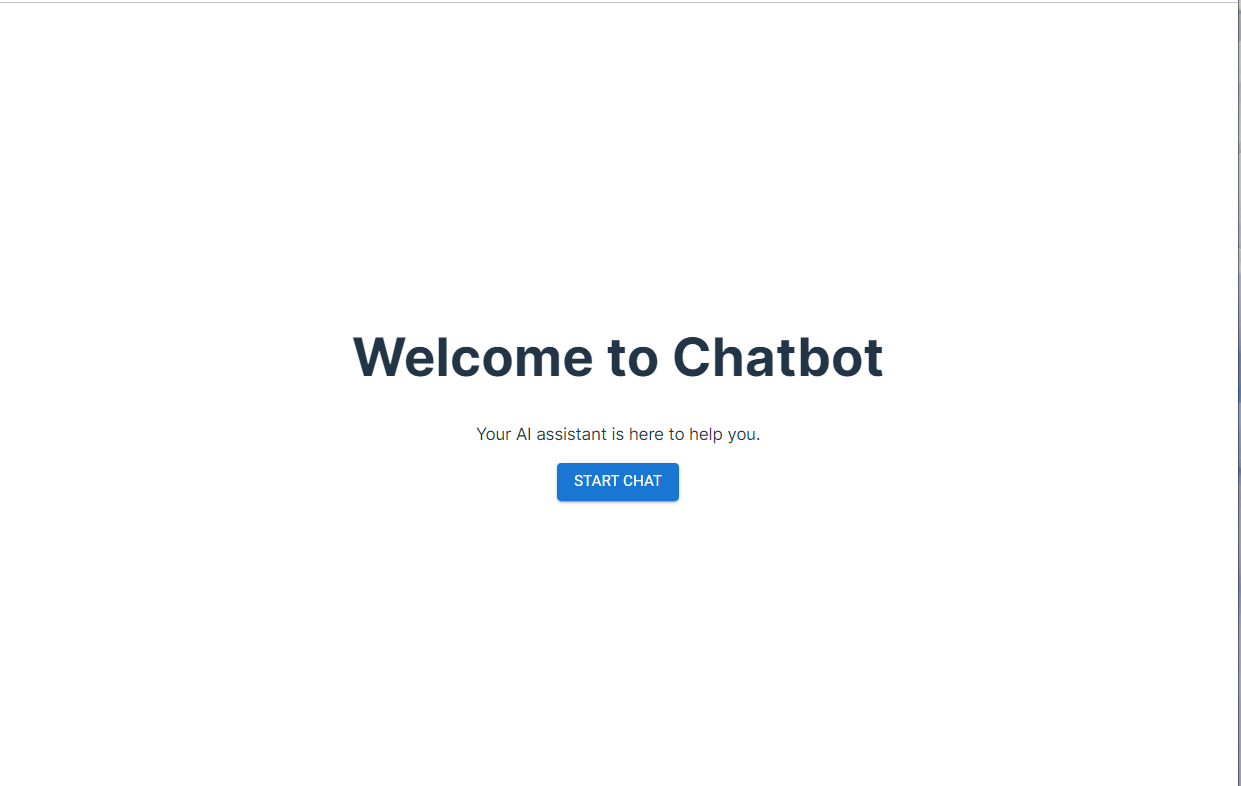
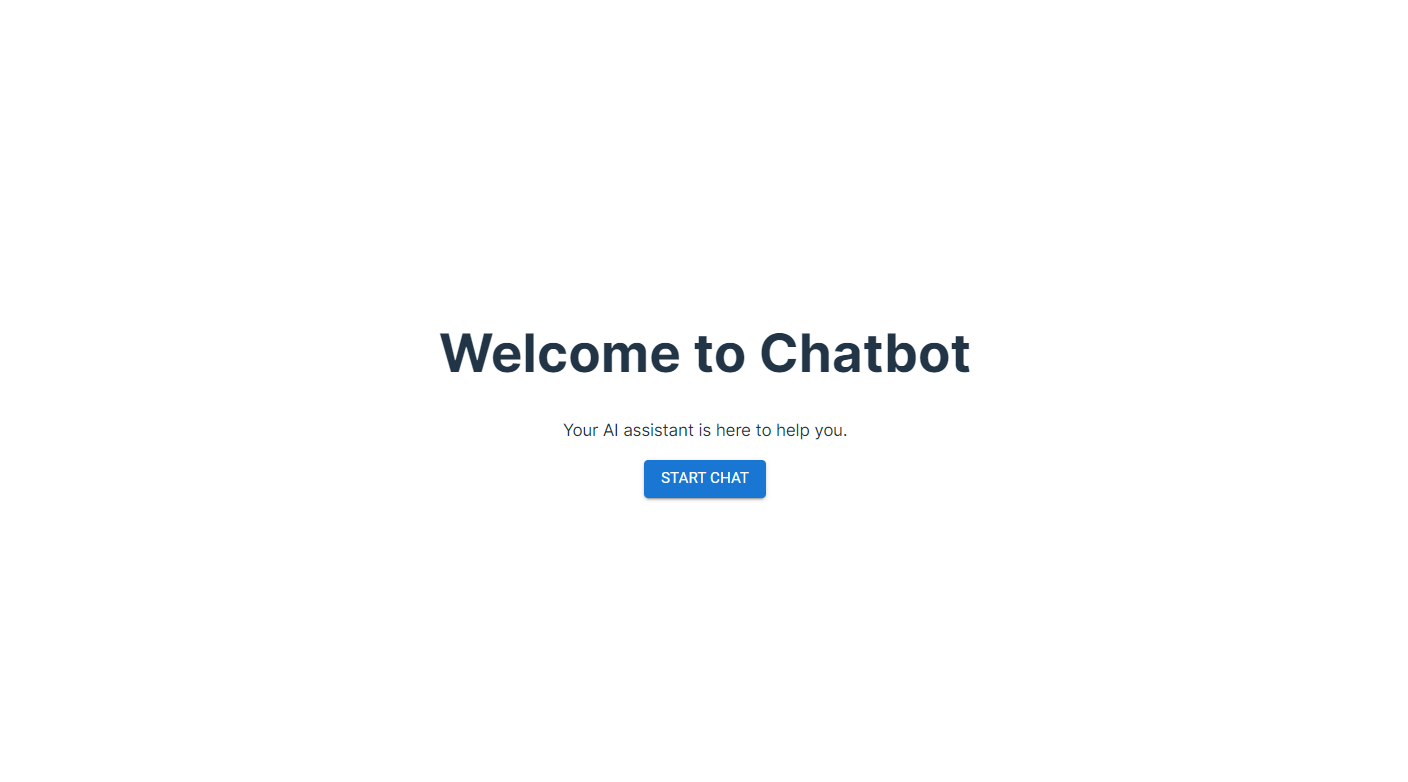
final change

Changed region(s): [[0.9799, 0.0, 1.0, 1.0], [0.2756, 0.4297, 0.7349, 0.491], [0.3981, 0.5217, 0.6124, 0.6445]]

diff --git a/README.md b/README.md
@@ -1,8 +1,8 @@
-# QuantumBot React Application
+# Cosmochat React Application
 
 ## Description
 
-The QuantumBot React Application is a chat interface built using React and various other modern web development tools. It features a welcome page, a chat interface, session management, and an activity dashboard that provides real-time user activity metrics.
+The Cosmochat React Application is a chat interface built using React and various other modern web development tools. It features a welcome page, a chat interface, session management, and an activity dashboard that provides real-time user activity metrics.
 
 ## Tools Used
 
